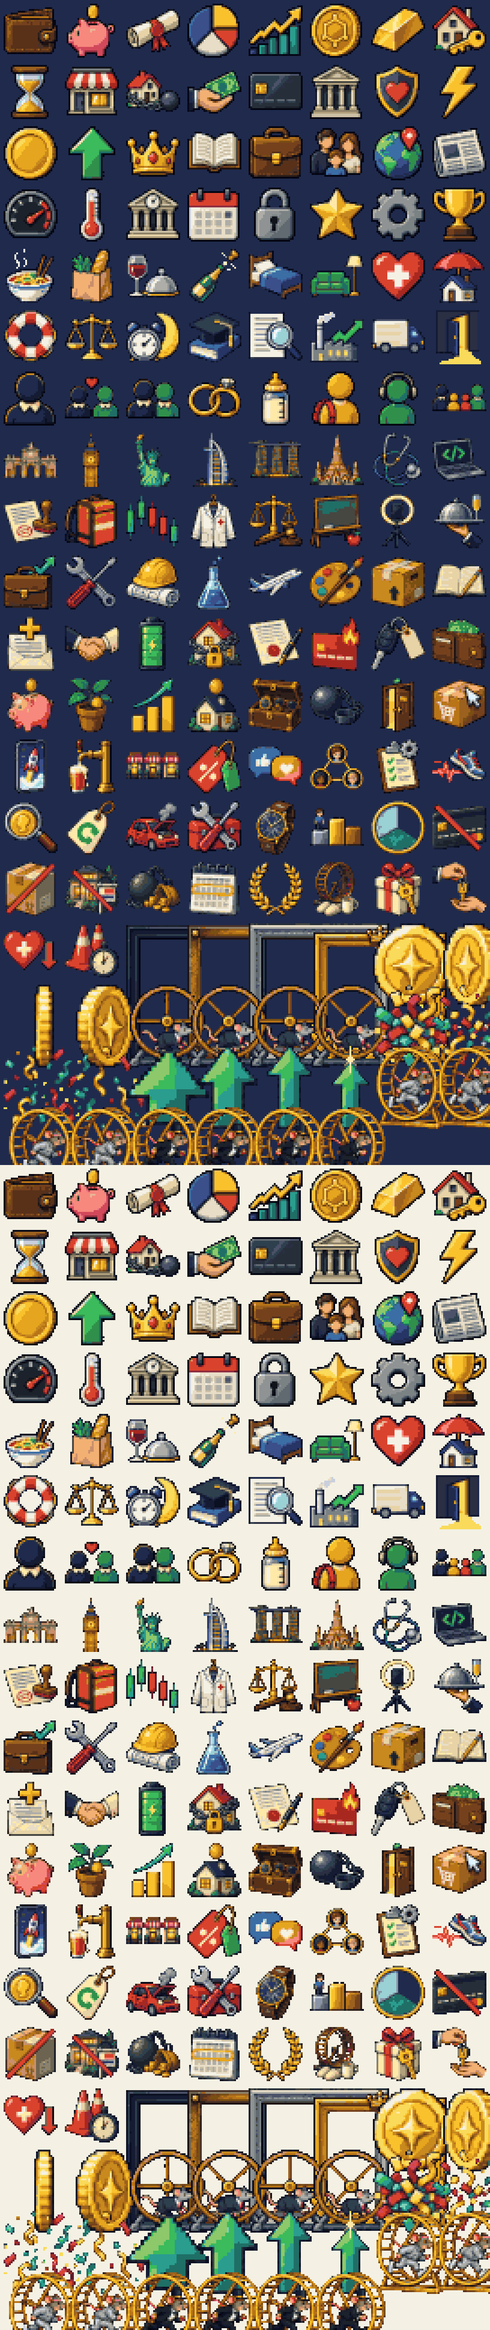
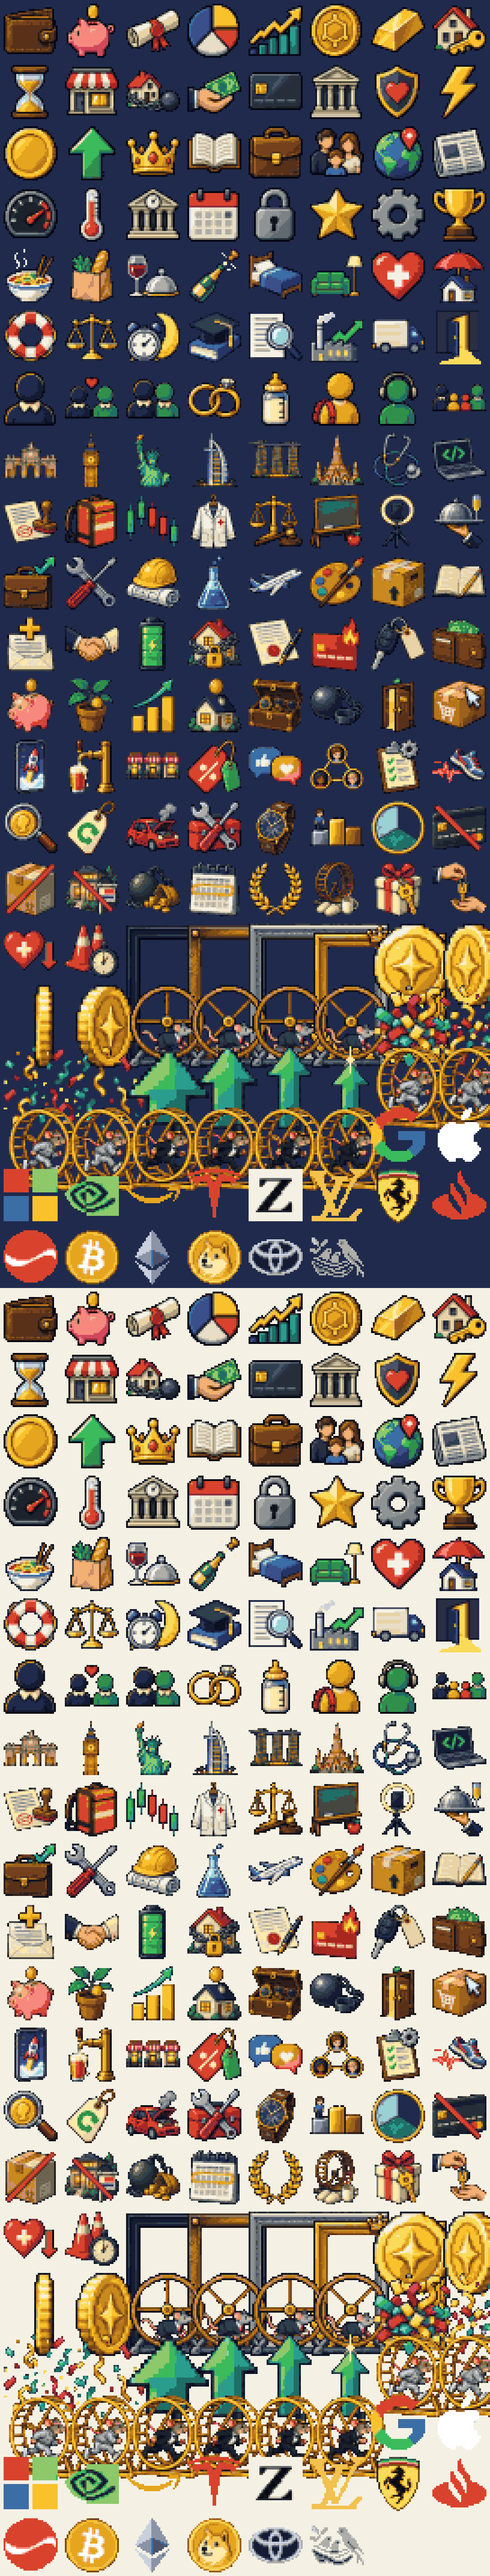
feat(art): brand marks on the shares and coins, and Google's own on the sign-in button
The logos sheet came on a navy ground: it was keyed to magenta from the edges before cutting.

diff --git a/apps/web/src/game/screens/Finance.tsx b/apps/web/src/game/screens/Finance.tsx
@@ -1,6 +1,6 @@
 'use client';
 
-import { assetKind, cityIcon, crestArt, debtArt, focusArt, homeName, insuranceArt, itemArt, lifestyleArt, propertyArt, rentTierIcon, USED_ART, saleSignArt } from '@ratrace/content';
+import { assetKind, assetLogo, cityIcon, crestArt, debtArt, focusArt, homeName, insuranceArt, itemArt, lifestyleArt, propertyArt, rentTierIcon, USED_ART, saleSignArt } from '@ratrace/content';
 import type { AssetKind } from '@ratrace/content';
 import { assetYieldBp, debtRateBp, depositRateBp, effectiveTax, focusLeft, homeOf, quoteItem, quoteLiving, quoteLoan, quoteMargin, quoteMove, quoteOwnedProperty, quotePlans, quotePortfolio, quoteProperty, quoteSkills, quoteWork } from '@ratrace/engine';
 import type { AssetDef, Debt, FocusAction, GameView, InsuranceKind, ItemDef, ItemQuote, LifestyleTier, Order, RentTier, UsedQuote } from '@ratrace/engine';
@@ -110,7 +110,7 @@ function Portfolio() {
           const gain = position.value - position.basis;
           return (
             <div key={asset.id} className="flex items-center gap-3 py-1.5">
-              <TickerBadge ticker={names.assets[asset.id].ticker} kind={asset.class} />
+              <TickerBadge ticker={names.assets[asset.id].ticker} kind={asset.class} logo={assetLogo[asset.id]} />
               <div className="min-w-0 flex-1">
                 <div className="truncate">{names.assets[asset.id].name}</div>
                 <div className={`text-[12px] ${gain >= 0 ? 'text-teal-300' : 'text-wine-300'}`}>
@@ -186,7 +186,7 @@ function Plans() {
           return (
             <li key={plan.assetId} className="border-t-2 border-night-900 first:border-t-0">
               <button type="button" data-finance-item aria-haspopup="dialog" onClick={() => setEditing(plan.assetId)} className="flex min-h-11 w-full items-center gap-3 py-2 text-left">
-                <TickerBadge ticker={names.assets[plan.assetId].ticker} kind={content.assets.find((asset) => asset.id === plan.assetId)?.class ?? 'equity'} />
+                <TickerBadge ticker={names.assets[plan.assetId].ticker} kind={content.assets.find((asset) => asset.id === plan.assetId)?.class ?? 'equity'} logo={assetLogo[plan.assetId]} />
                 <span className="min-w-0 flex-1">
                   <span className="block truncate">{names.assets[plan.assetId].name}</span>
                   <span className="block text-[12px] text-ink-300">{plan.rounds > 0 ? t('putIn', { amount: fmt.money(plan.invested), rounds: plan.rounds }) : t('starts')}</span>
@@ -307,7 +307,7 @@ function Market() {
                 >
                   {/* Only the badge is dimmed for a locked asset: its name and what unlocks it must stay readable. */}
                   <span className={locked ? 'opacity-50' : ''}>
-                    <TickerBadge ticker={names.assets[asset.id].ticker} kind={asset.class} />
+                    <TickerBadge ticker={names.assets[asset.id].ticker} kind={asset.class} logo={assetLogo[asset.id]} />
                   </span>
                   <span className="min-w-0 flex-1">
                     <span className={`block truncate ${locked ? 'text-ink-200' : ''}`}>{names.assets[asset.id].name}</span>

diff --git a/packages/content/src/index.ts b/packages/content/src/index.ts
@@ -5,7 +5,7 @@ export { names } from './names';
 export type { Locale, Names } from './names';
 export { fillNames, homeName, rawText, textFor } from './text';
 export type { CardText, ContentText } from './text';
-export { assetClassArt, saleSignArt, CHALLENGE_ART, GIFT_ART, HANDOVER_ART, HEALTH_RISK_ART, RETIRED_ART, ruleArt, CITY_HOME_KINDS, CITY_HOMES_DRAWN, badgeArt, RIM_ART, balanceArt, businessArt, PERCENTILE_ART, repairArt, USED_ART, cardArt, careerArt, CITY_LIGHTS, cityArt, cityIcon, crestArt, DEBT_ART, debtArt, endingArt, ENDINGS, FAMILY_ART, familyArt, focusArt, FRAME_ART, FRAME_STATUS, frameArt, HOME_LIFE_ART, homeLifeArt, insuranceArt, itemArt, lifestyleArt, loopArt, LOOPS, RAT_OUTFITS_DRAWN, wheelArt, momentArt, perkArt, PORTRAIT_AGES, portraitArt, propertyArt, rentTierArt, rentTierIcon, skillArt, topicArt, workArt } from './art';
+export { assetClassArt, assetLogo, GOOGLE_LOGO, saleSignArt, CHALLENGE_ART, GIFT_ART, HANDOVER_ART, HEALTH_RISK_ART, RETIRED_ART, ruleArt, CITY_HOME_KINDS, CITY_HOMES_DRAWN, badgeArt, RIM_ART, balanceArt, businessArt, PERCENTILE_ART, repairArt, USED_ART, cardArt, careerArt, CITY_LIGHTS, cityArt, cityIcon, crestArt, DEBT_ART, debtArt, endingArt, ENDINGS, FAMILY_ART, familyArt, focusArt, FRAME_ART, FRAME_STATUS, frameArt, HOME_LIFE_ART, homeLifeArt, insuranceArt, itemArt, lifestyleArt, loopArt, LOOPS, RAT_OUTFITS_DRAWN, wheelArt, momentArt, perkArt, PORTRAIT_AGES, portraitArt, propertyArt, rentTierArt, rentTierIcon, skillArt, topicArt, workArt } from './art';
 export type { CityLight, Ending, Loop, RatOutfit } from './art';
 export { badges, badgesEarned, galleryBadges, journalAfter, journalStart, START_AGE } from './badges';
 export type { BadgeDef, BadgeGroup, Journal, Step } from './badges';

diff --git a/packages/content/src/text.test.ts b/packages/content/src/text.test.ts
@@ -3,6 +3,8 @@ import { fileURLToPath } from 'node:url';
 import { describe, expect, it } from 'vitest';
 import {
   assetClassArt,
+  assetLogo,
+  GOOGLE_LOGO,
   balanceArt,
   cardArt,
   careerArt,
@@ -300,10 +302,14 @@ describe('content art', () => {
       HANDOVER_ART,
       HEALTH_RISK_ART,
       ...content.cities.map((city) => saleSignArt(city.id)),
+      ...Object.values(assetLogo).filter((logo): logo is string => logo !== undefined),
+      GOOGLE_LOGO,
     ];
     expect(wanted.filter((sprite) => !has(sprite))).toEqual([]);
     const rungs = content.careers.reduce((sum, career) => sum + career.levels.length, 0);
-    expect(wanted.length).toBe(135 + 60 + 5 + 4 + 2 + 3 + 6 + 16 + 2 + 6 * 5 + 8 + 6 + 16 * 4 + 6 + (4 + 2 + 4 + 8 + 5) + (11 + rungs) + 5 + 4 + 8 + 4 + 6 + 3 * 4 + 3 + 3 + 7 + 5 + 2 + 3);
+    expect(wanted.length).toBe(135 + 60 + 5 + 4 + 2 + 3 + 6 + 16 + 2 + 6 * 5 + 8 + 6 + 16 * 4 + 6 + (4 + 2 + 4 + 8 + 5) + (11 + rungs) + 5 + 4 + 8 + 4 + 6 + 3 * 4 + 3 + 3 + 7 + 5 + 2 + 3 + 13 + 1);
+    // A brand mark belongs to an asset the market has.
+    for (const assetId of Object.keys(assetLogo)) expect(content.assets.some((asset) => asset.id === assetId), assetId).toBe(true);
     // Nobody is drawn at home with someone who lives alone; a couple, a family and a full house each have their picture.
     expect([[false, 0], [true, 0], [false, 1], [true, 2], [true, 3]].map(([partner, children]) => homeLifeArt({ partner: partner as boolean, children: children as number }))).toEqual([null, 'family.couple', 'family.children', 'family.children', 'family.full_house']);
     // Every career is drawn at its three stages, and a frame is earned by status, plainest first.

diff --git a/apps/web/src/ui/GoogleMark.tsx b/apps/web/src/ui/GoogleMark.tsx
@@ -1,29 +1,11 @@
-/**
- * Google's "G" drawn in the game's pixels, in Google's four colours, so the sign-in button belongs
- * to the rest of the screen. Decoration: the button's words already say Google.
- */
-const ROWS = [
-  '....RRRR....',
-  '..RRRRRRRR..',
-  '.RRR....RRR.',
-  '.RR.........',
-  'RR..........',
-  'YY....BBBBBB',
-  'YY....BBBBBB',
-  'YY........BB',
-  '.YG.......BB',
-  '.GGG....BBB.',
-  '..GGGGGGBB..',
-  '....GGGG....',
-];
-const COLOUR: Record<string, string> = { R: '#ea4335', Y: '#fbbc05', G: '#34a853', B: '#4285f4' };
+import { GOOGLE_LOGO } from '@ratrace/content';
+import { Sprite } from './Sprite';
 
+/** Google's "G" in the game's pixels, for the sign-in button. Decoration: the button's words already say Google. */
 export function GoogleMark({ size = 24 }: { size?: number }) {
   return (
-    <svg aria-hidden width={size} height={size} viewBox="0 0 12 12" shapeRendering="crispEdges" className="shrink-0">
-      {ROWS.flatMap((row, y) =>
-        [...row].map((cell, x) => (cell === '.' ? null : <rect key={`${x}-${y}`} x={x} y={y} width={1} height={1} fill={COLOUR[cell]} />)),
-      )}
-    </svg>
+    <span aria-hidden className="inline-flex shrink-0" style={{ width: size, height: size }}>
+      <Sprite id={GOOGLE_LOGO} fallback={{ w: 32, h: 32 }} className="!h-full !w-full" />
+    </span>
   );
 }

diff --git a/packages/content/src/art.ts b/packages/content/src/art.ts
@@ -263,7 +263,17 @@ export const momentArt: Record<string, string> = {
 export const PORTRAIT_AGES = [22, 32, 45, 58] as const;
 export const portraitArt = (lifeId: string, age: (typeof PORTRAIT_AGES)[number]): string => `portrait.${lifeId}.${age}`;
 
-/** Assets have no sprite of their own: the interface draws a ticker badge over the icon of their class. */
+/** The brand mark of a share or a coin, drawn in pixels. Funds, bonds and gold have none, and keep their ticker. */
+export const assetLogo: Readonly<Partial<Record<string, string>>> = {
+  apple: 'logo.apple', microsoft: 'logo.microsoft', nvidia: 'logo.nvidia', amazon: 'logo.amazon', tesla: 'logo.tesla',
+  inditex: 'logo.inditex', lvmh: 'logo.lvmh', ferrari: 'logo.ferrari', santander: 'logo.santander', coca_cola: 'logo.coca_cola',
+  bitcoin: 'logo.bitcoin', ethereum: 'logo.ethereum', dogecoin: 'logo.dogecoin',
+};
+
+/** Signing in with Google shows its mark. */
+export const GOOGLE_LOGO = 'logo.google';
+
+/** Assets with no brand mark have no sprite of their own: the interface draws a ticker badge over the icon of their class. */
 export const assetClassArt: Record<'bond' | 'fund' | 'stock' | 'crypto' | 'gold', string> = {
   bond: 'icon.bond',
   fund: 'icon.fund',

diff --git a/apps/web/src/game/screens/Balance.tsx b/apps/web/src/game/screens/Balance.tsx
@@ -1,6 +1,6 @@
 'use client';
 
-import { assetKind, debtArt, homeName, itemArt, propertyArt } from '@ratrace/content';
+import { assetKind, assetLogo, debtArt, homeName, itemArt, propertyArt } from '@ratrace/content';
 import { assetYieldBp, cashflowLines, debtRateBp, depositRateBp, homeOf, netWorth, quoteOwnedProperty, realNetWorth } from '@ratrace/engine';
 import type { GameView } from '@ratrace/engine';
 import type { ReactNode } from 'react';
@@ -109,7 +109,7 @@ export function BalanceSheet({ line, shown, onClose, onItem }: { line: BalanceLi
                     const pays = assetYieldBp(asset, world);
                     return (
                       <li key={asset.id} className="flex items-center gap-3">
-                        <TickerBadge ticker={names.assets[asset.id].ticker} kind={asset.class} />
+                        <TickerBadge ticker={names.assets[asset.id].ticker} kind={asset.class} logo={assetLogo[asset.id]} />
                         <div className="min-w-0 flex-1">
                           <div className="truncate">{names.assets[asset.id].name}</div>
                           <div className="text-[12px]">

diff --git a/apps/web/src/ui/kit.tsx b/apps/web/src/ui/kit.tsx
@@ -181,8 +181,18 @@ const BADGE: Record<string, string> = {
   gold: 'bg-gold-500 text-ink-900 [--hi:var(--color-gold-200)] [--lo:var(--color-gold-700)]',
 };
 
-/** An asset's ticker on a coloured plate. Assets have no sprite of their own. */
-export function TickerBadge({ ticker, kind }: { ticker: string; kind: string }) {
+/**
+ * An asset on a plate: its brand mark on a dark plate where it has one, its ticker on the colour of
+ * its class where it has not. The name is always written beside it, so the mark is decoration.
+ */
+export function TickerBadge({ ticker, kind, logo }: { ticker: string; kind: string; logo?: string }) {
+  if (logo) {
+    return (
+      <span className="lamp inline-flex h-9 w-14 shrink-0 items-center justify-center bg-night-900 [--hi:var(--color-night-600)] [--lo:var(--color-ink-900)]">
+        <Sprite id={logo} />
+      </span>
+    );
+  }
   return (
     <span className={join('pixel lamp inline-flex h-9 w-14 shrink-0 items-center justify-center text-[14px]', BADGE[kind] ?? BADGE.equity)}>{ticker}</span>
   );

diff --git a/tools/art/src/sheets.ts b/tools/art/src/sheets.ts
@@ -321,5 +321,13 @@ export const SHEETS: SheetSpec[] = [
     file: `skylines/skylines-0${i + 5}`, group: 'skylines', kind: 'scenes', cols: 1, rows: 3, width: 312, height: 66,
     ids: (i % 2 === 0 ? ['madrid', 'london', 'new_york'] : ['dubai', 'singapore', 'bangkok']).map((city) => `skyline.${city}.${mood}`),
   })),
+  // Brand marks: Google's for signing in, Apple's for a sign-in to come, and those of the shares and coins on the market.
+  {
+    file: 'icons/logos-01', group: 'icons', kind: 'objects', cols: 4, rows: 4, width: 32, height: 32,
+    ids: [
+      'logo.google', 'logo.apple', 'logo.microsoft', 'logo.nvidia', 'logo.amazon', 'logo.tesla', 'logo.inditex', 'logo.lvmh',
+      'logo.ferrari', 'logo.santander', 'logo.coca_cola', 'logo.bitcoin', 'logo.ethereum', 'logo.dogecoin', 'logo.toyota', 'logo.nestle',
+    ],
+  },
   { file: 'brand/brand-01', group: 'brand', kind: 'objects', cols: 2, rows: 2, width: 256, height: 256, ids: ['brand.logo', 'brand.wordmark', 'brand.app_icon', 'brand.mascot'] },
 ];

diff --git a/art/clean/report.md b/art/clean/report.md
@@ -1,13 +1,13 @@
 # Art report
 
-Sprites: 649. Every group uses the 31 interface colours plus its own.
+Sprites: 665. Every group uses the 31 interface colours plus its own.
 
 | Group | Sprites | Size | Colours |
 |---|---|---|---|
 | items | 58 | 64×64 | 64 |
 | cars | 9 | 96×48 | 64 |
 | homes | 90 | 128×128 | 64 |
-| icons | 150 | 32×32 | 64 |
+| icons | 166 | 32×32 | 64 |
 | badges | 48 | 64×64 | 64 |
 | portraits | 80 | 64×64 | 64 |
 | cards | 186 | 288×120 | 64 |
